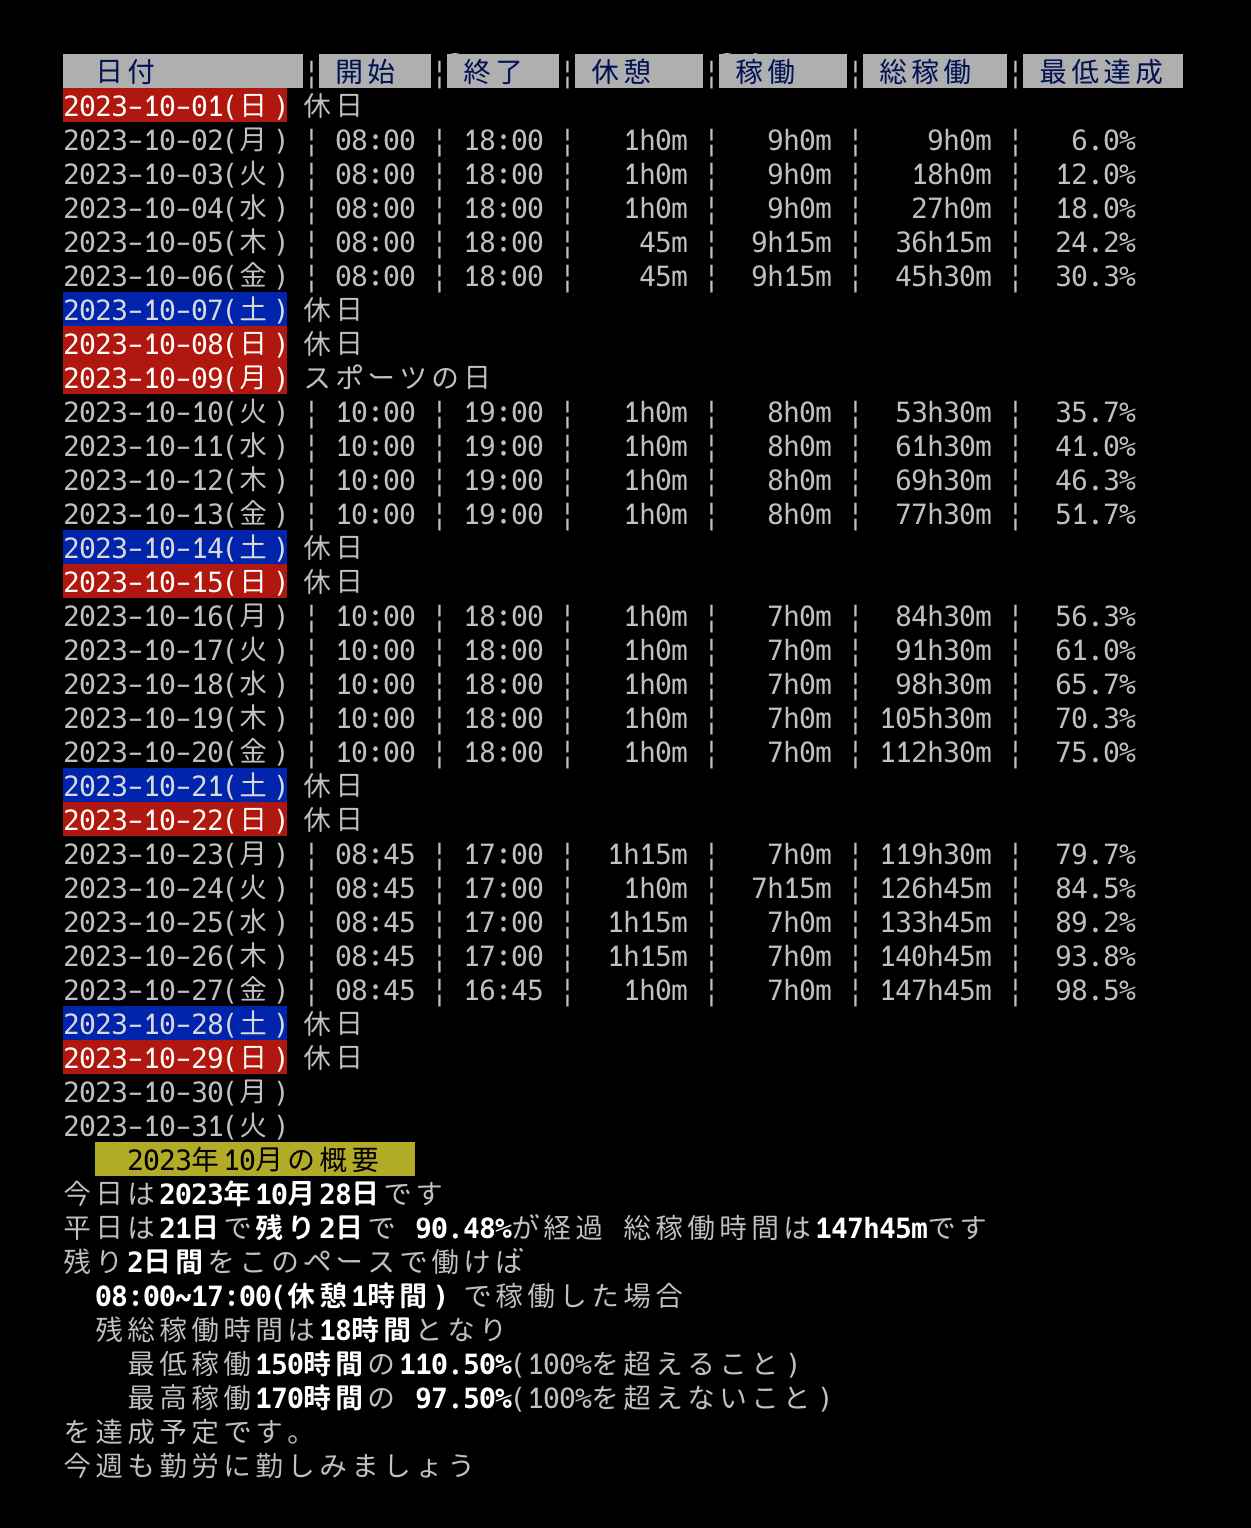
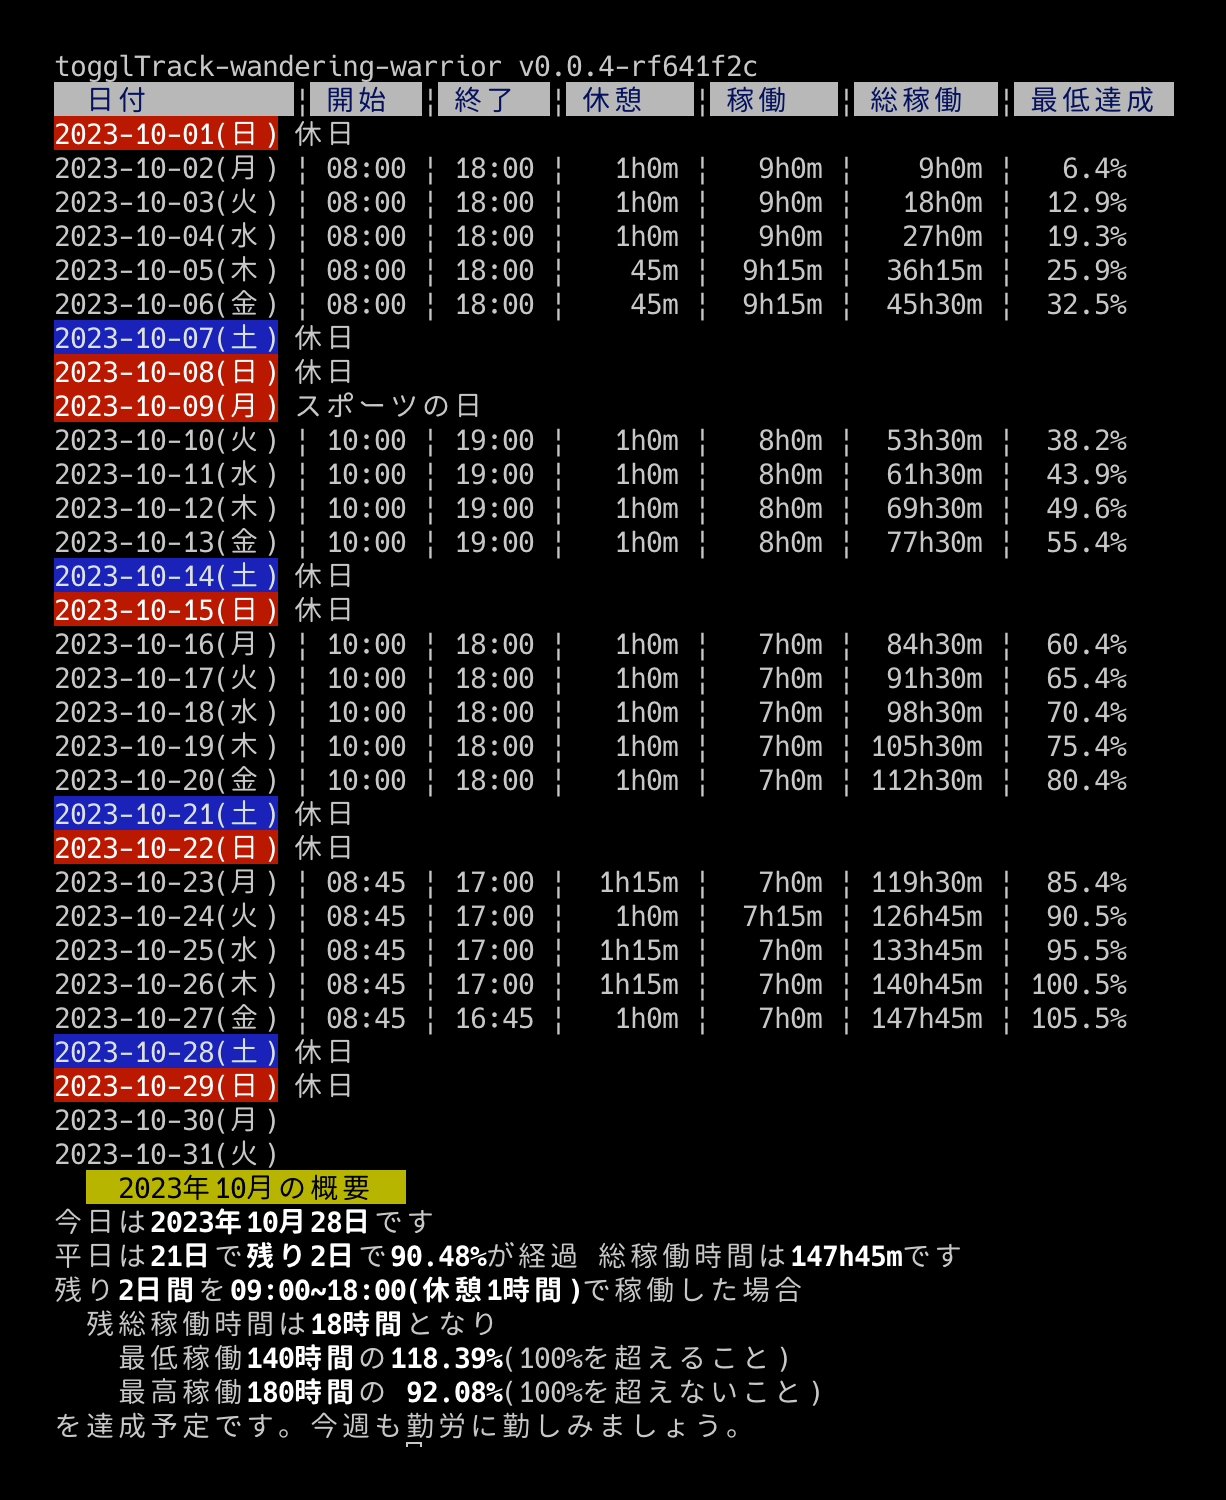
バージョンの追加とデモモードの追加

diff --git a/src/cmd/togglTrack-wandering-warrior/monthly.go b/src/cmd/togglTrack-wandering-warrior/monthly.go
@@ -8,13 +8,10 @@ import (
 	"github.com/wsxiaoys/terminal/color"
 )
 
-func monthly(targetDate time.Time, monthOffsetMode bool) {
+func monthly(today, target time.Time) {
 
 	weekdayTotal := 0
 	weekdayRemain := 0
-
-	now := time.Now()
-	// now := time.Date(2023, 10, 28, 0, 0, 0, 0, utils.TzTokyo())
 
 	tgr := toggler.New(
 		&toggler.NewOptions{
@@ -24,14 +21,14 @@ func monthly(targetDate time.Time, monthOffsetMode bool) {
 		})
 
 	workTimeTotal := time.Duration(0)
-	monthly := tgr.Monthly(targetDate, cfg.Worktimes.Round)
+	monthly := tgr.Monthly(target, cfg.Worktimes.Round)
 
 	color.Fprintf(aw,
 		"@{bW} %s         @{|}|@{bW} %s  @{|}|@{bW} %s  @{|}|@{bW} %s   @{|}|@{bW} %s   @{|}|@{bW} %s  @{|}|@{bW} %s @{|}\n",
 		" 日付", "開始", "終了", "休憩", "稼働", "総稼働", "最低達成",
 	)
 
-	for daynum, cal := range monthlyCalendar(targetDate) {
+	for daynum, cal := range monthlyCalendar(target) {
 		ent := monthly[daynum]
 		switch cal.Color {
 		case "red":
@@ -44,7 +41,7 @@ func monthly(targetDate time.Time, monthOffsetMode bool) {
 
 		if cal.IsWeekday {
 			weekdayTotal++
-			if ent.Date.After(now) {
+			if ent.Date.After(today) {
 				weekdayRemain++
 			}
 		}
@@ -65,21 +62,21 @@ func monthly(targetDate time.Time, monthOffsetMode bool) {
 		}
 	}
 
-	monthlySummary(now, targetDate, weekdayTotal, weekdayRemain, workTimeTotal)
+	monthlySummary(today, target, weekdayTotal, weekdayRemain, workTimeTotal)
 }
 
 func monthlySummary(now, target time.Time, weekdayTotal, weekdayRemain int, workTimeTotal time.Duration) {
 	color.Fprintf(aw, "  @{bY}  %04d年%02d月の概要  @{|}\n", target.Year(), target.Month())
 
 	color.Fprintf(aw, "今日は@{!}%04d年%02d月%02d日@{|}です\n", now.Year(), now.Month(), now.Day())
-	color.Fprintf(aw, "平日は@{!}%d日@{|}で@{!}残り%d日@{|}で ", weekdayTotal, weekdayRemain)
+	color.Fprintf(aw, "平日は@{!}%d日@{|}で@{!}残り%d日@{|}で", weekdayTotal, weekdayRemain)
 	color.Fprintf(aw, "@{!}%5.2f%%@{|}が経過 ", (float64(weekdayTotal-weekdayRemain)/float64(weekdayTotal))*100)
 	color.Fprintf(aw, "総稼働時間は@{!}%s@{|}です\n", utils.DurationHourMin(workTimeTotal))
 
 	guessRemain := cfg.Worktimes.End.Sub(cfg.Worktimes.Start).Hours() * float64(weekdayRemain)
 
-	color.Fprintf(aw, "残り@{!}%d日間@{|}をこのペースで働けば\n", weekdayRemain)
-	color.Fprintf(aw, "  @{!}%s~%s(休憩%.0f時間)@{|} で稼働した場合\n",
+	color.Fprintf(aw, "残り@{!}%d日間@{|}を@{!}%s~%s(休憩%.0f時間)@{|}で稼働した場合\n",
+		weekdayRemain,
 		cfg.Worktimes.Start.Format(time.TimeOnly)[:5],
 		cfg.Worktimes.End.Format(time.TimeOnly)[:5],
 		cfg.Worktimes.Rest.Hours(),

diff --git a/src/cmd/togglTrack-wandering-warrior/main.go b/src/cmd/togglTrack-wandering-warrior/main.go
@@ -1,0 +1,58 @@
+package main
+
+import (
+	"flag"
+	"fmt"
+	"io"
+	"log"
+	"os"
+	"time"
+
+	"github.com/mamemomonga/togglTrack-wandering-warrior/src/configs"
+	"github.com/mamemomonga/togglTrack-wandering-warrior/src/utils"
+	"github.com/shiena/ansicolor"
+	"github.com/wsxiaoys/terminal/color"
+)
+
+var (
+	version  string
+	revision string
+)
+
+var cfg *configs.Configs
+var aw io.Writer
+
+func main() {
+	var err error
+	aw = ansicolor.NewAnsiColorWriter(os.Stdout)
+
+	var (
+		configFile  = flag.String("config", "", "configファイル")
+		monthOffset = flag.Int("month", 0, "今月からn月戻る")
+		demo        = flag.Bool("demo", false, "デモモード")
+	)
+	flag.Parse()
+
+	// 設定読込
+	cfg, err = configs.New(*configFile)
+	if err != nil {
+		log.Fatal(err)
+	}
+
+	// 対象日
+	target := time.Now().AddDate(0, -*monthOffset, 0)
+
+	version_string := ""
+	//	if version != "" {
+	version_string = fmt.Sprintf("v%s-r%s", version, revision)
+	//	}
+
+	color.Fprintf(aw, "togglTrack-wandering-warrior %s\n", version_string)
+
+	today := time.Now()
+	if *demo {
+		today = time.Date(2023, 10, 28, 0, 0, 0, 0, utils.TzTokyo())
+	}
+	monthly(today, target)
+
+}
